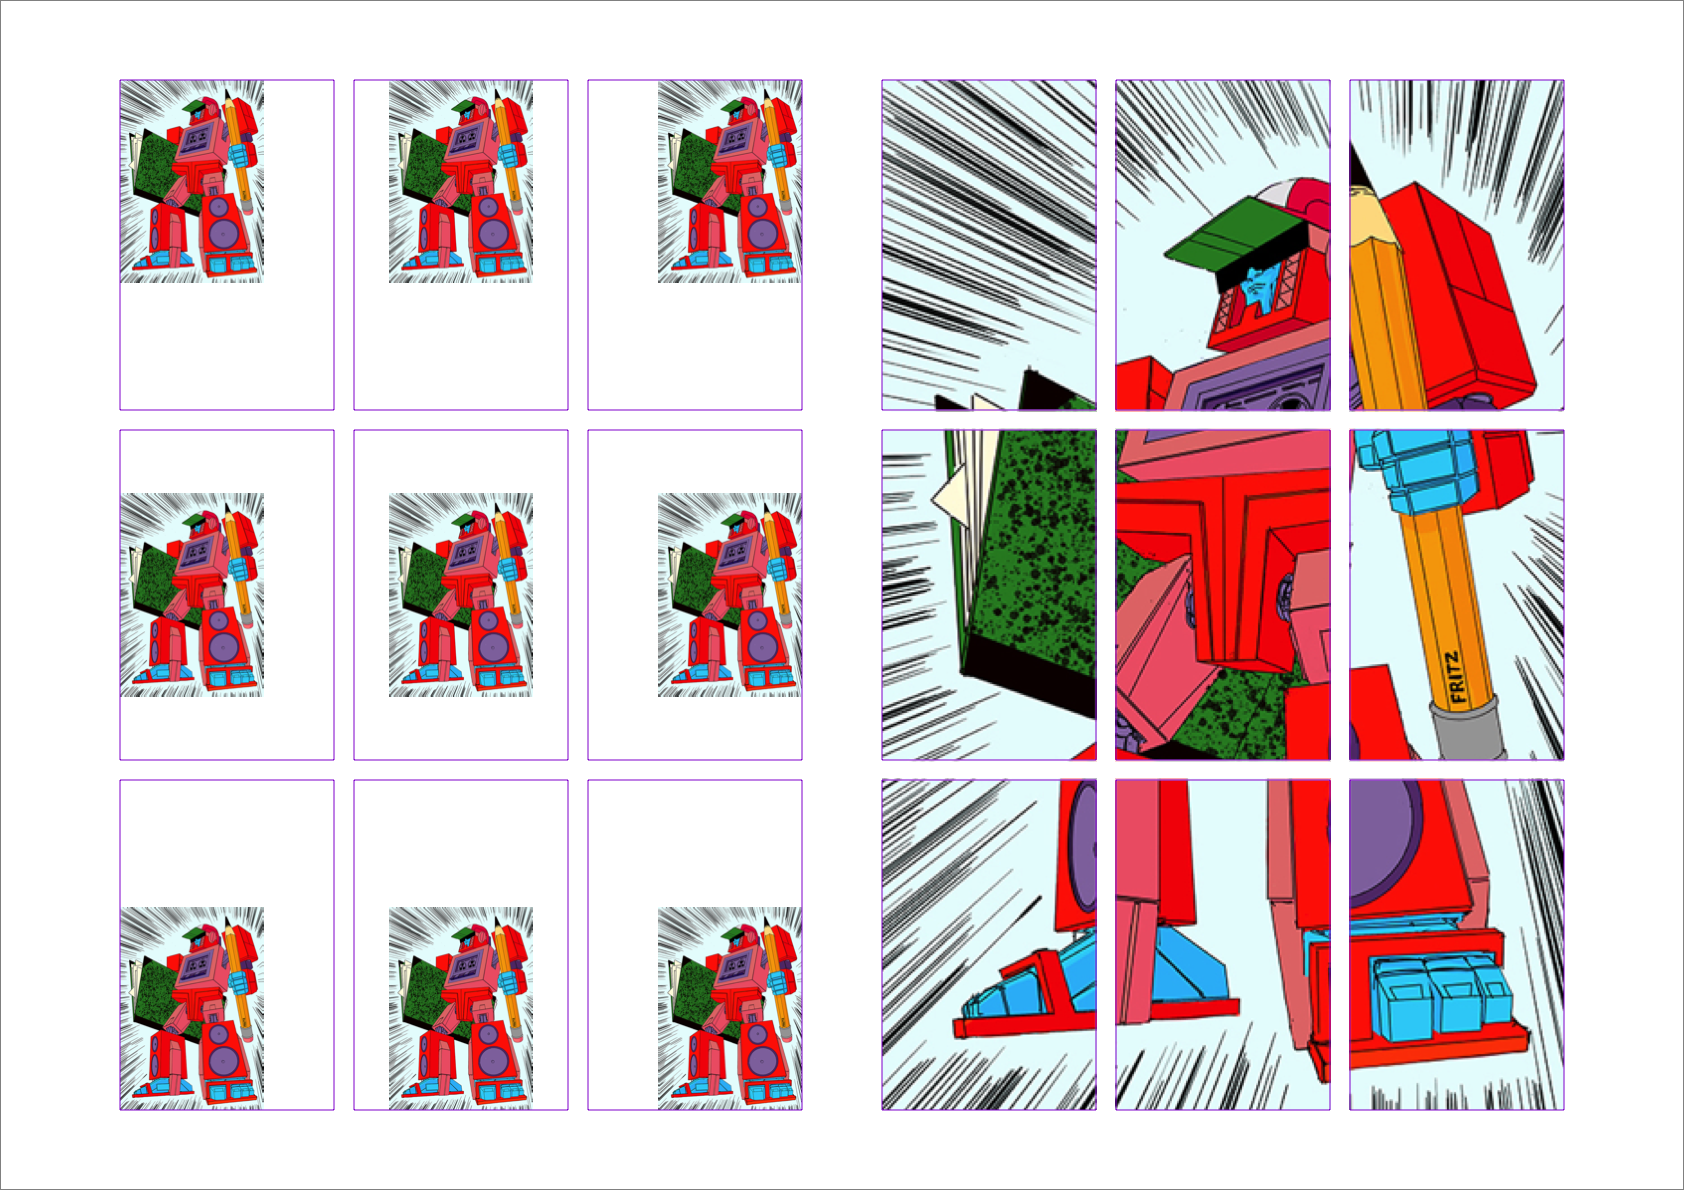
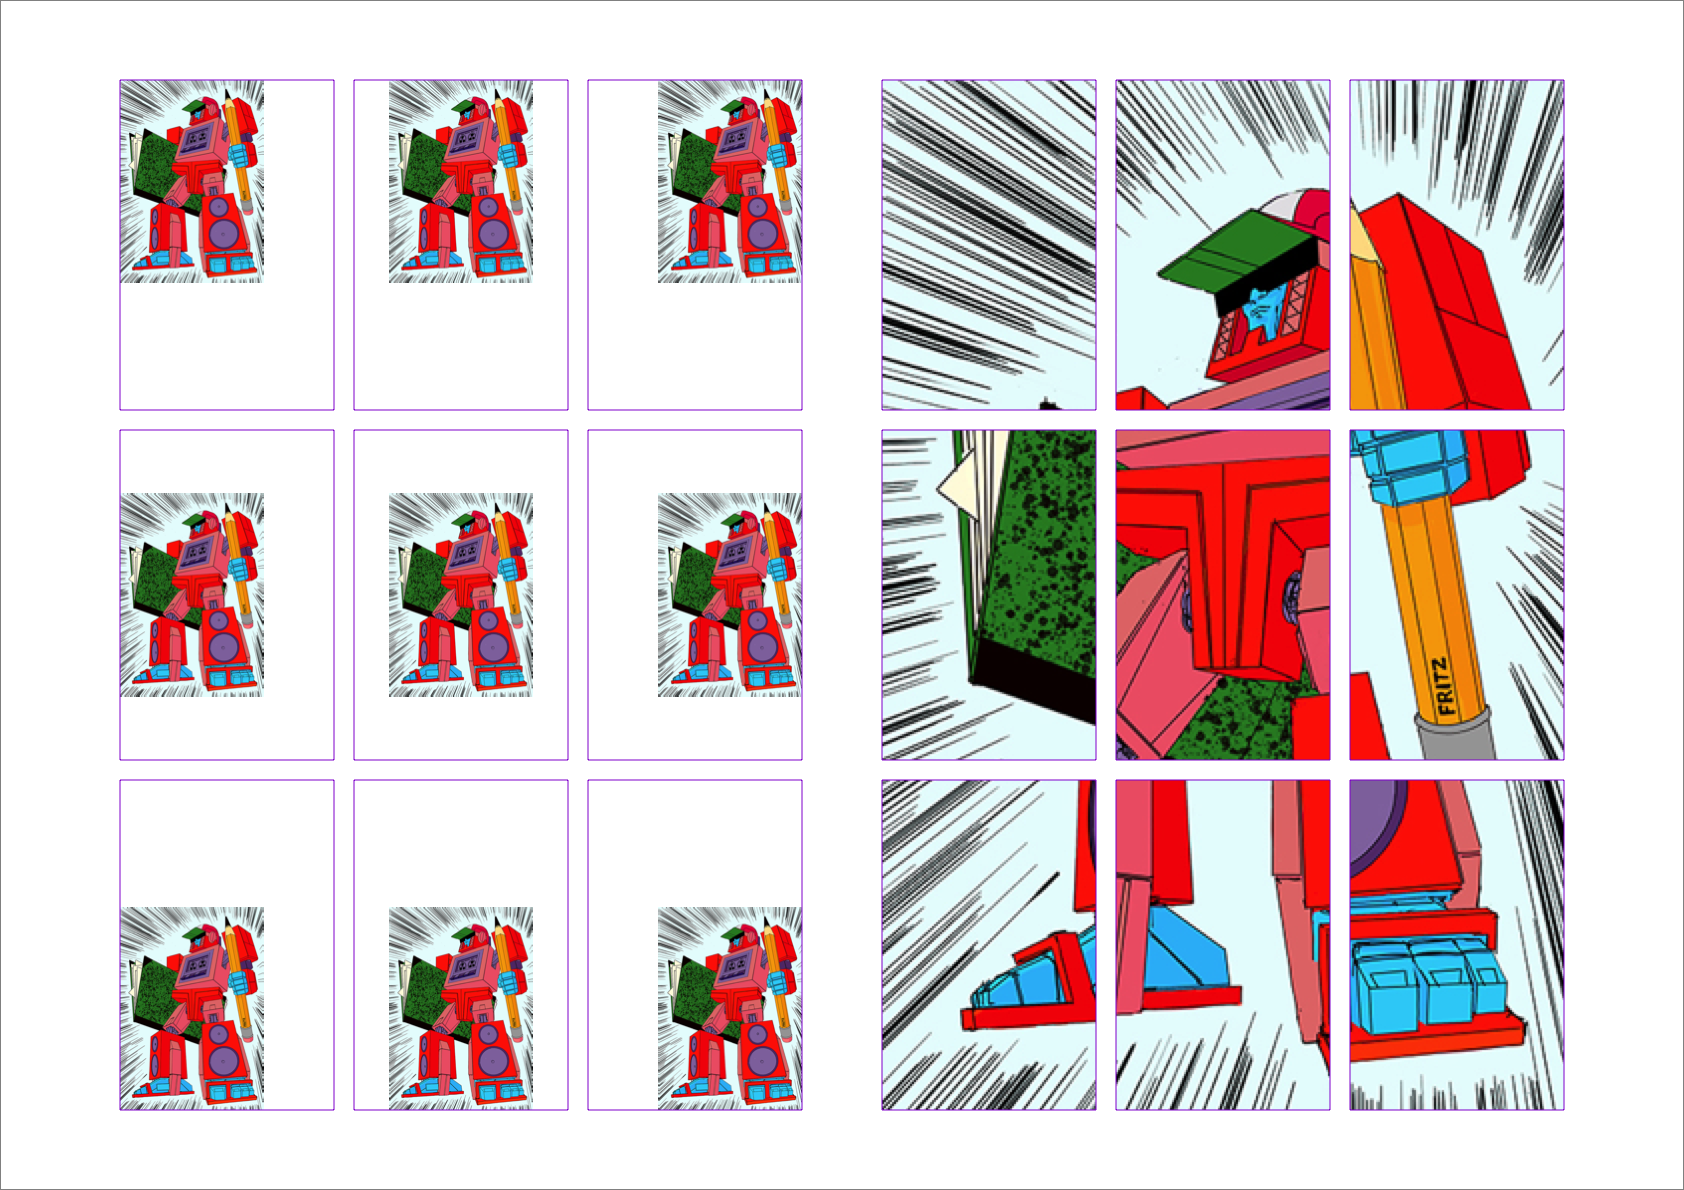
Workaround for ImageBox cropping creating blurry borders

Changed region(s): [[0.5249, 0.0622, 0.9264, 0.9328]]

diff --git a/drawBotGrid/image.py b/drawBotGrid/image.py
@@ -1,4 +1,7 @@
 import drawBot as db
+import pathlib
+import tempfile
+import PIL
 
 def image_at_size(path, box, preserve_proprotions=True):
     """
@@ -42,60 +45,61 @@ def image_box(path,
 
     assert fitting in ("fit", "fill", "crop")
 
-    x, y, w, h = box
-    im = db.ImageObject(path)
+    im_path = pathlib.Path(path)
+    with tempfile.NamedTemporaryFile(suffix=im_path.suffix, delete=False) as im_cropped:
 
-    # get the scale ratio
-    image_w, image_h = db.imageSize(im)
-    scale_ratio_w = w / image_w
-    scale_ratio_h = h / image_h
-    if fitting == "fit":
-        scale_ratio = min(scale_ratio_w, scale_ratio_h)
-    elif fitting == "fill":
-        scale_ratio = max(scale_ratio_w, scale_ratio_h)
-    elif fitting == "crop":        
-        scale_ratio = scale
+        x, y, w, h = box
+        
+        # get the scale ratio
+        image_w, image_h = db.imageSize(path)
+        scale_ratio_w = w / image_w
+        scale_ratio_h = h / image_h
+        if fitting == "fit":
+            scale_ratio = min(scale_ratio_w, scale_ratio_h)
+        elif fitting == "fill":
+            scale_ratio = max(scale_ratio_w, scale_ratio_h)
+        elif fitting == "crop":        
+            scale_ratio = scale
 
+        _crop_image_with_anchor(path, im_cropped.name, anchor, w/scale_ratio, h/scale_ratio)
 
-    _crop_imageObject_with_anchor(im, anchor, w/scale_ratio, h/scale_ratio)
+        im_width, im_height = db.imageSize(im_cropped.name)
+        im_width_scaled = im_width*scale_ratio
+        im_height_scaled = im_height*scale_ratio
+        anchor_x, anchor_y = anchor
 
-    im_width, im_height = db.imageSize(im)
-    im_width_scaled = im_width*scale_ratio
-    im_height_scaled = im_height*scale_ratio
-    anchor_x, anchor_y = anchor
+        if anchor_x == "left":
+            offset_x = x
+        elif anchor_x == "right":
+            offset_x = x + w - im_width_scaled
+        elif anchor_x == "center":
+            offset_x = x + (w - im_width_scaled)/2
 
-    if anchor_x == "left":
-        offset_x = x
-    elif anchor_x == "right":
-        offset_x = x + w - im_width_scaled
-    elif anchor_x == "center":
-        offset_x = x + (w - im_width_scaled)/2
+        assert anchor_y in ("center", "bottom", "top")
+        if anchor_y == "bottom":
+            offset_y = y
+        elif anchor_y == "top":
+            offset_y = y + h - im_height_scaled
+        elif anchor_y == "center":
+            offset_y = y + (h - im_height_scaled)/2
 
-    assert anchor_y in ("center", "bottom", "top")
-    if anchor_y == "bottom":
-        offset_y = y
-    elif anchor_y == "top":
-        offset_y = y + h - im_height_scaled
-    elif anchor_y == "center":
-        offset_y = y + (h - im_height_scaled)/2
-
-    with db.savedState():
-        db.translate(offset_x, offset_y)
-        db.scale(scale_ratio, scale_ratio)
-        db.image(im, (0, 0), **kwargs)
-
-    if draw_box_frame:
-        grid_color =  (.5, 0, .8, 1)
         with db.savedState():
-            db.strokeWidth(.5)
-            db.fill(None)
-            db.stroke(*grid_color)
-            db.rect(*box)
+            db.translate(offset_x, offset_y)
+            db.scale(scale_ratio, scale_ratio)
+            db.image(im_cropped.name, (0, 0), **kwargs)
 
-def _crop_imageObject_with_anchor(im, anchor, crop_width, crop_height):
+        if draw_box_frame:
+            grid_color =  (.5, 0, .8, 1)
+            with db.savedState():
+                db.strokeWidth(.5)
+                db.fill(None)
+                db.stroke(*grid_color)
+                db.rect(*box)
+
+def _crop_image_with_anchor(input_path, output_path, anchor, crop_width, crop_height):
     
     anchor_x, anchor_y = anchor
-    im_width, im_height = db.imageSize(im)
+    im_width, im_height = db.imageSize(input_path)
     if anchor_x == "left":
         crop_x = 0
     elif anchor_x == "right":
@@ -110,27 +114,33 @@ def _crop_imageObject_with_anchor(im, anchor, crop_width, crop_height):
     elif anchor_y == "center":
         crop_y = (im_height - crop_height)/2
 
-    im.crop((crop_x, crop_y, crop_width, crop_height))
+    ## moving through PIL here
+    ## as drawBot imageObject.crop 
+    ## seems to produce blurred borders
 
-def _get_imageObject_offset_in_box(im, box, anchor):
-    x, y, w, h = box
-    anchor_x, anchor_y = anchor
-    im_width, im_height = db.imageSize(im)
-    if anchor_x == "left":
-        offset_x = x
-    elif anchor_x == "right":
-        offset_x = x + w - im_width
-    elif anchor_x == "center":
-        offset_x = x + (w - im_width)/2
+    im = PIL.Image.open(input_path)
+    im = im.crop((crop_x, crop_y, crop_x+crop_width, crop_y+crop_height))
+    im.save(output_path)
 
-    assert anchor_y in ("center", "bottom", "top")
-    if anchor_y == "bottom":
-        offset_y = y
-    elif anchor_y == "top":
-        offset_y = y + h - im_height
-    elif anchor_y == "center":
-        offset_y = y + (h - im_height)/2
+# def _get_image_offset_in_box(im, box, anchor):
+#     x, y, w, h = box
+#     anchor_x, anchor_y = anchor
+#     im_width, im_height = db.imageSize(im)
+#     if anchor_x == "left":
+#         offset_x = x
+#     elif anchor_x == "right":
+#         offset_x = x + w - im_width
+#     elif anchor_x == "center":
+#         offset_x = x + (w - im_width)/2
 
-    return (offset_x, offset_y)
+#     assert anchor_y in ("center", "bottom", "top")
+#     if anchor_y == "bottom":
+#         offset_y = y
+#     elif anchor_y == "top":
+#         offset_y = y + h - im_height
+#     elif anchor_y == "center":
+#         offset_y = y + (h - im_height)/2
+
+#     return (offset_x, offset_y)
 
 imageBox = image_box

diff --git a/setup.py b/setup.py
@@ -7,7 +7,7 @@ from setuptools import setup
 #         return f.read()
 
 setup(name="drawBotGrid",
-      version="0.1",
+      version="0.1.1",
       description="a little helper for grid based layout in DrawBot",
       long_description="TBD",
       classifiers=[
